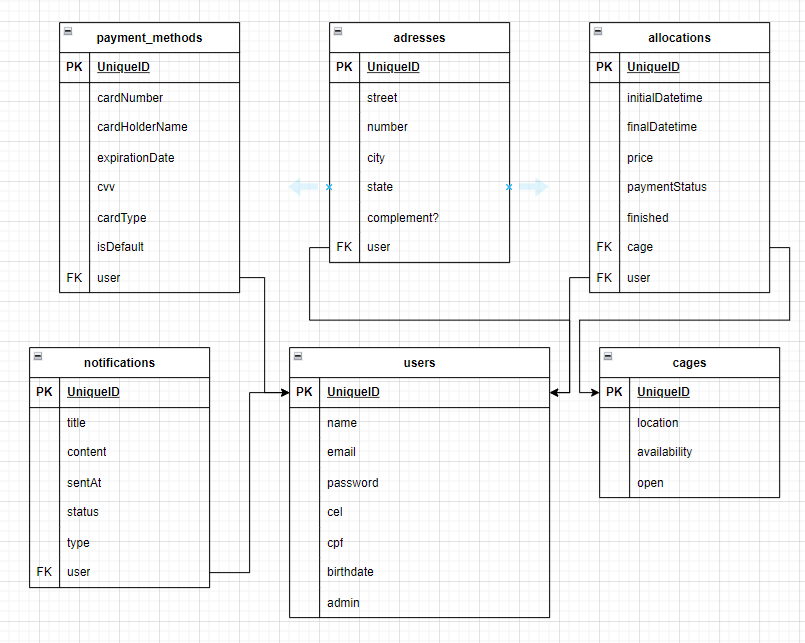
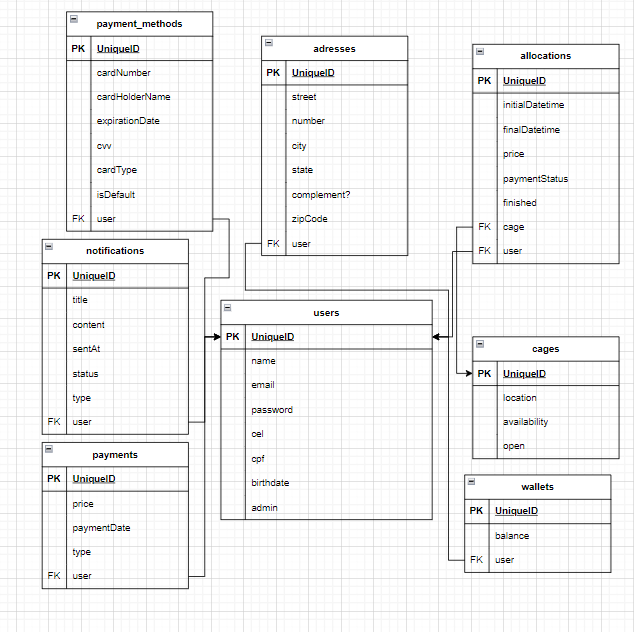
feat: criando schemas e interfaces wallet e payment

diff --git a/src/schemas/index.ts b/src/schemas/index.ts
@@ -6,7 +6,7 @@ import {
   userLoginSchema,
   userSchemaUpdate,
   userProfileSchema,
-  userAddressSchema
+  userAddressSchema,
 } from "./user.schemas";
 
 import { cageSchema, cageCreateSchema, cageReadSchema } from "./cage.schemas";
@@ -31,6 +31,10 @@ import {
   paymentMethodSchema,
 } from "./paymentMethod.schemas";
 
+import { paymentCreateSchema, paymentSchema } from "./payments.schemas";
+
+import { walletCreateSchema, walletSchema } from "./wallet.schemas";
+
 export {
   userSchema,
   userCreateSchema,
@@ -53,5 +57,9 @@ export {
   notificationCreateSchema,
   notificationSchema,
   userProfileSchema,
-  userAddressSchema
+  userAddressSchema,
+  paymentCreateSchema,
+  paymentSchema,
+  walletCreateSchema,
+  walletSchema,
 };

diff --git a/src/interfaces/index.ts b/src/interfaces/index.ts
@@ -5,7 +5,7 @@ import {
   UserRepo,
   IUserReturn,
   IUpdateUser,
-  UserProfile
+  UserProfile,
 } from "./user.interfaces";
 
 import {
@@ -34,6 +34,10 @@ import {
   IPaymentMethod,
 } from "./paymentMethod.interfaces";
 
+import { PaymentCreate, PaymentRepo, IPayment } from "./payment.interfaces";
+
+import { WalletCreate, WalletRepo, IWallet } from "./wallet.interfaces";
+
 export {
   UserCreate,
   UserRead,
@@ -61,5 +65,11 @@ export {
   PaymentMethodCreate,
   PaymentMethodRepo,
   IPaymentMethod,
-  UserProfile
+  UserProfile,
+  WalletCreate,
+  WalletRepo,
+  IWallet,
+  PaymentCreate,
+  PaymentRepo,
+  IPayment,
 };

diff --git a/src/interfaces/payment.interfaces.ts b/src/interfaces/payment.interfaces.ts
@@ -1,0 +1,13 @@
+import { z } from "zod";
+import {
+    paymentSchema, paymentCreateSchema
+} from "../schemas";
+import { Repository } from "typeorm";
+import { Payment } from "../entities";
+
+type IPayment = z.infer<typeof paymentSchema>;
+type PaymentCreate = z.infer<typeof paymentCreateSchema>
+
+type PaymentRepo = Repository<Payment>;
+
+export { IPayment, PaymentCreate, PaymentRepo };

diff --git a/src/interfaces/wallet.interfaces.ts b/src/interfaces/wallet.interfaces.ts
@@ -1,0 +1,13 @@
+import { z } from "zod";
+import {
+    walletSchema, walletCreateSchema
+} from "../schemas";
+import { Repository } from "typeorm";
+import { Wallet } from "../entities";
+
+type IWallet = z.infer<typeof walletSchema>;
+type WalletCreate = z.infer<typeof walletCreateSchema>
+
+type WalletRepo = Repository<Wallet>;
+
+export { IWallet, WalletCreate, WalletRepo };

diff --git a/src/schemas/payments.schemas.ts b/src/schemas/payments.schemas.ts
@@ -1,0 +1,16 @@
+import { z } from "zod";
+
+const paymentSchema = z.object({
+  id: z.number().positive(),
+  price: z.string().max(100),
+  paymentDate: z.string().max(100),
+  type: z.string().max(100),
+  user: z.any()
+});
+
+const paymentCreateSchema = paymentSchema.omit({ id: true, user: true });
+
+export {
+  paymentSchema,
+  paymentCreateSchema,
+};

diff --git a/src/schemas/wallet.schemas.ts b/src/schemas/wallet.schemas.ts
@@ -1,0 +1,14 @@
+import { z } from "zod";
+
+const walletSchema = z.object({
+  id: z.number().positive(),
+  balance: z.string().max(100),
+  user: z.any()
+});
+
+const walletCreateSchema = walletSchema.omit({ id: true, user: true });
+
+export {
+  walletSchema,
+  walletCreateSchema,
+};

diff --git a/src/schemas/address.schemas.ts b/src/schemas/address.schemas.ts
@@ -7,6 +7,7 @@ const addressSchema = z.object({
   city: z.string().max(100),
   state: z.string().max(100),
   complement: z.string().max(255),
+  zipCode: z.string().max(20),
   user: z.number().positive()
 });
 

diff --git a/src/schemas/paymentMethod.schemas.ts b/src/schemas/paymentMethod.schemas.ts
@@ -7,6 +7,7 @@ const paymentMethodSchema = z.object({
   expirationDate: z.string().max(5),
   cvv: z.string().max(3),
   cardType: z.string().max(100),
+  isDefault: z.boolean(),
   user: z.any()
 });
 
